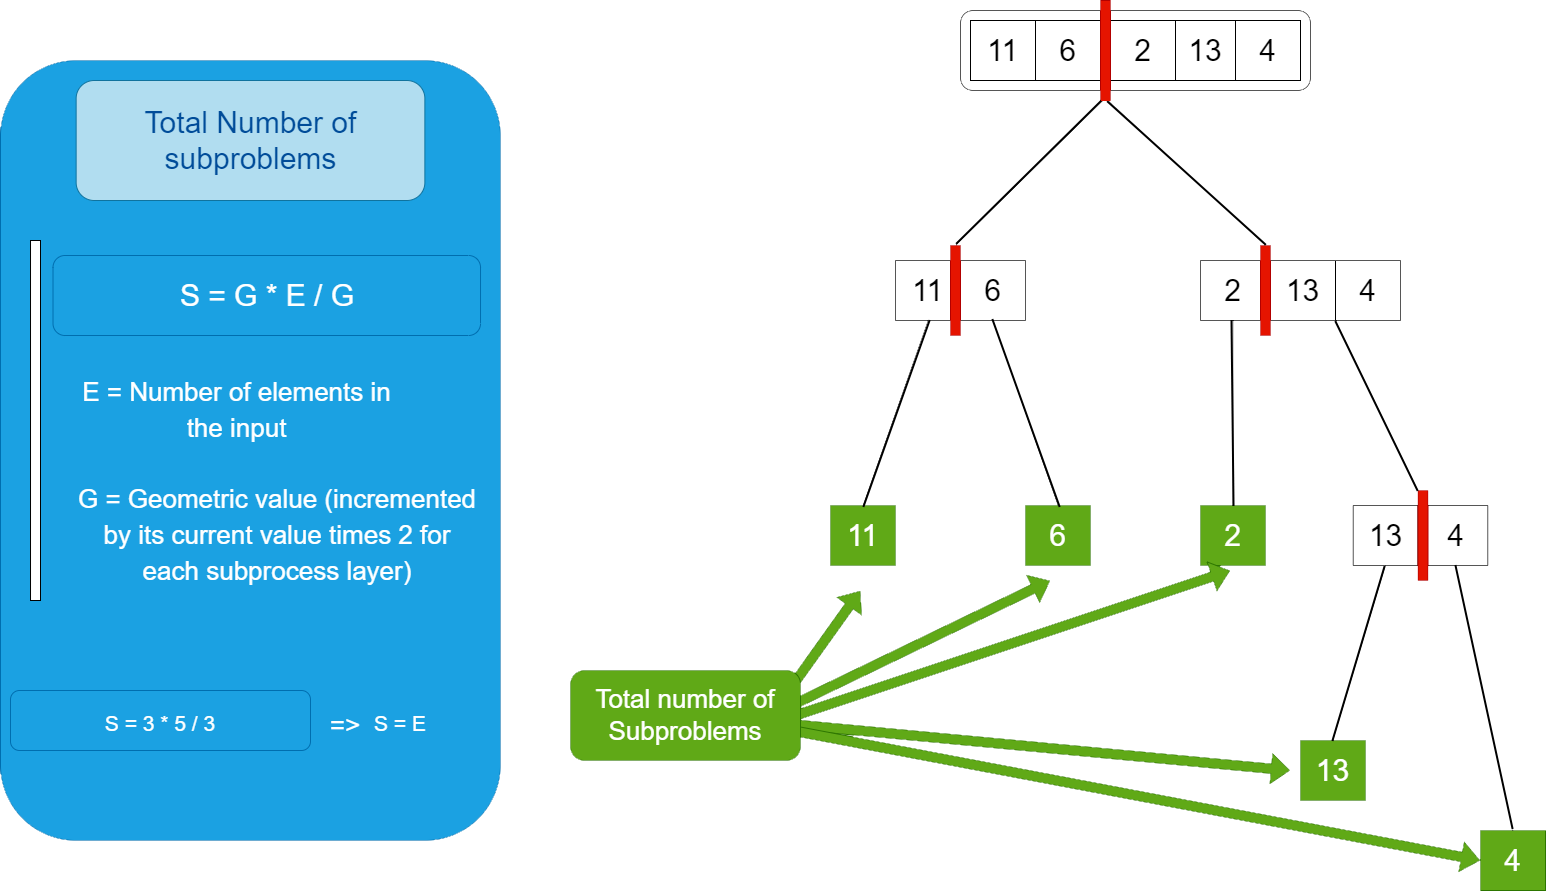
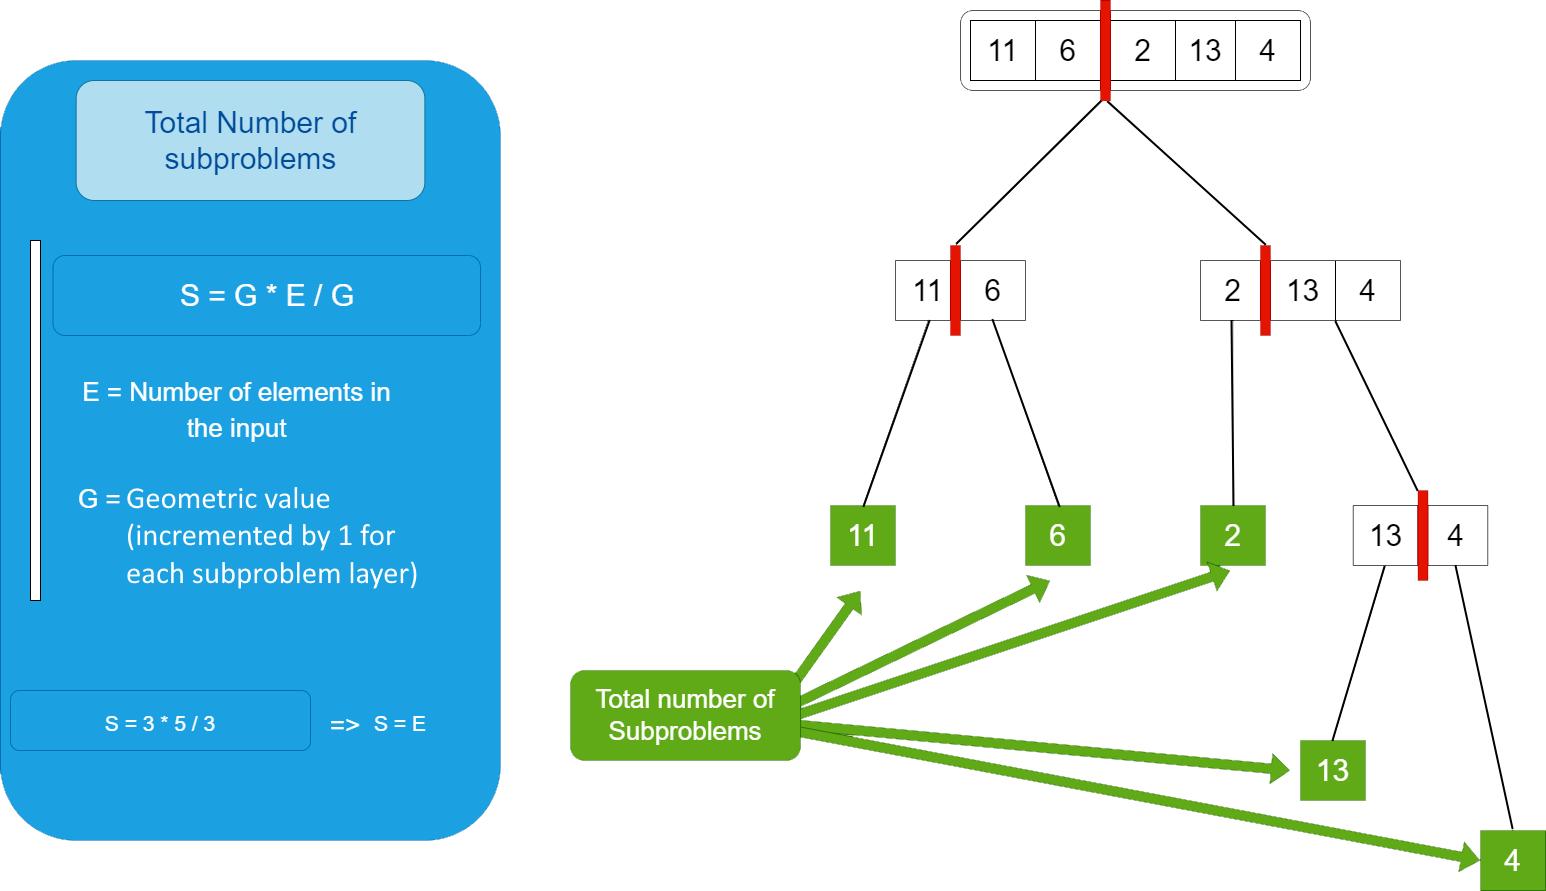
* UPDATE

Changed region(s): [[0.0621, 0.5455, 0.3105, 0.6667]]

diff --git a/README.md b/README.md
@@ -166,13 +166,13 @@ Merge Sort)***.
 
 From the ***0(N \* log(N))*** time complexity notation, the ***log(N)***
 is representing the time complexity of the sorting procedure, which is
-resulted by dividing ***N***by 2, where ***N*** is the linear time took
+resulted by dividing ***N*** by 2, where ***N*** is the linear time took
 to sort all the elements in the input, creating a total number of
 subproblems equal with ***S = G \* E / G***, where ***S*** is the total
 number of subproblems, ***E*** is the total number of elements in the
 input, and ***G*** is the geometric sequence value with an initial value
-of 1 and that is incremented with the current ***G*** value times 2 for
-each subproblem layer.
+of 1 and that is incremented by 1 for
+each subproblem layer, times 2. The multiplication by 2 represents the split done by each recursion. **S = 2 * 3 * 5 / 3 * 2** => **S = 3 * 5 / 3**
 
 ![](vertopal_41849d6da22a471abd4ca242134bfc38/media/image3.png)
 
